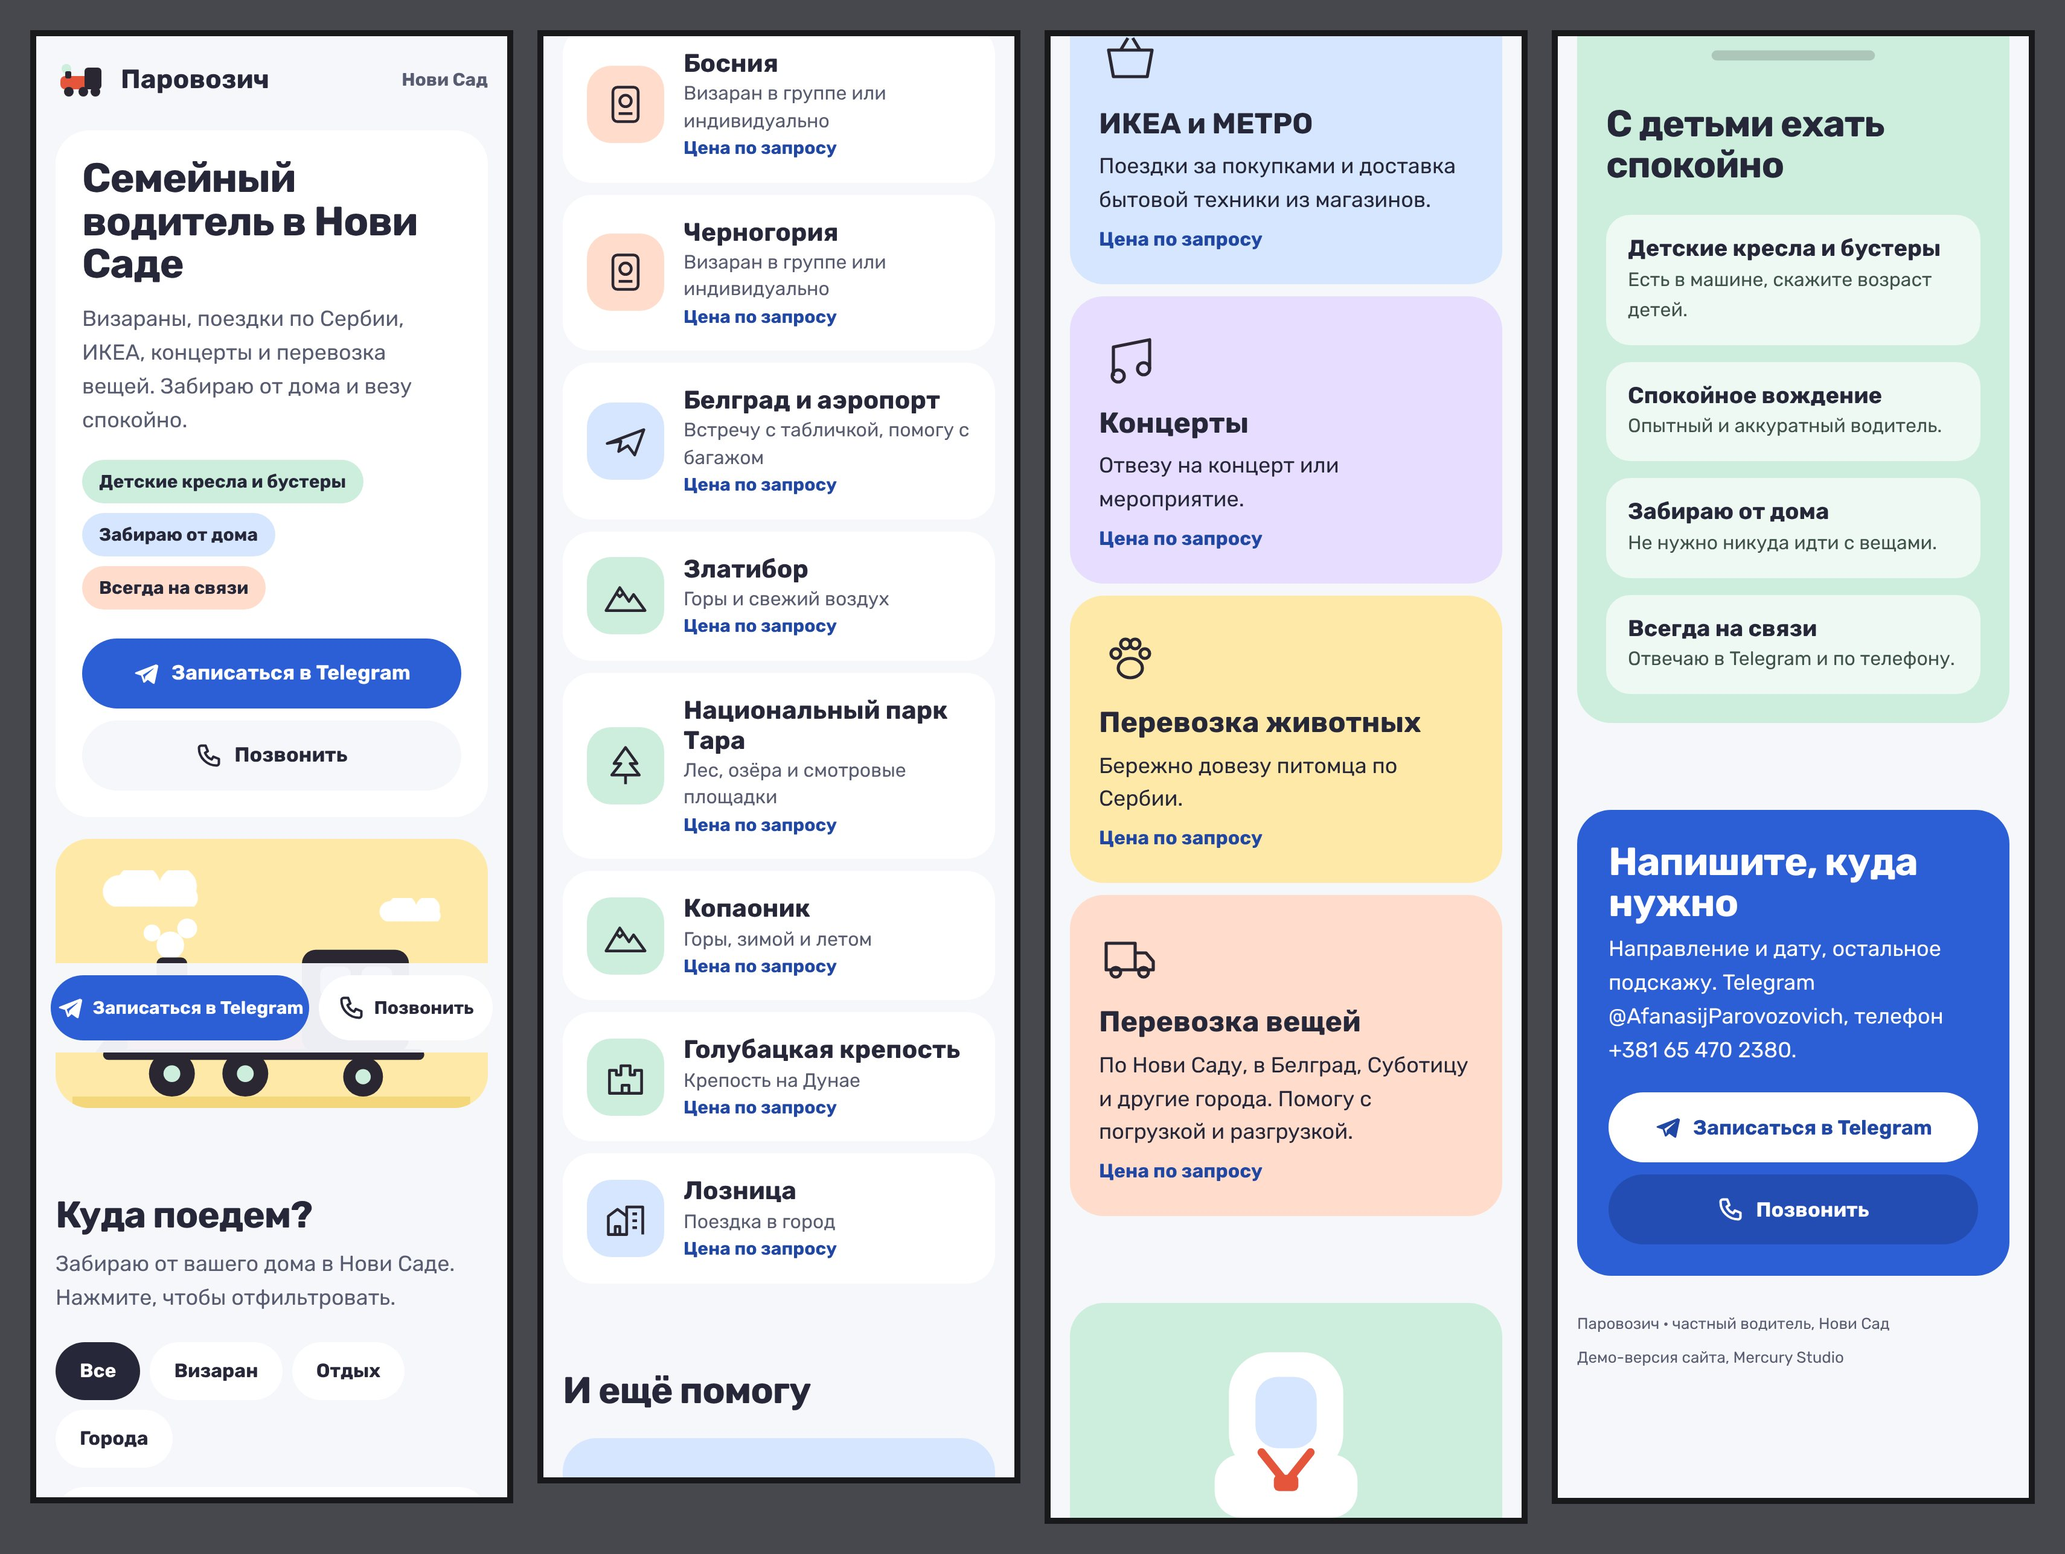
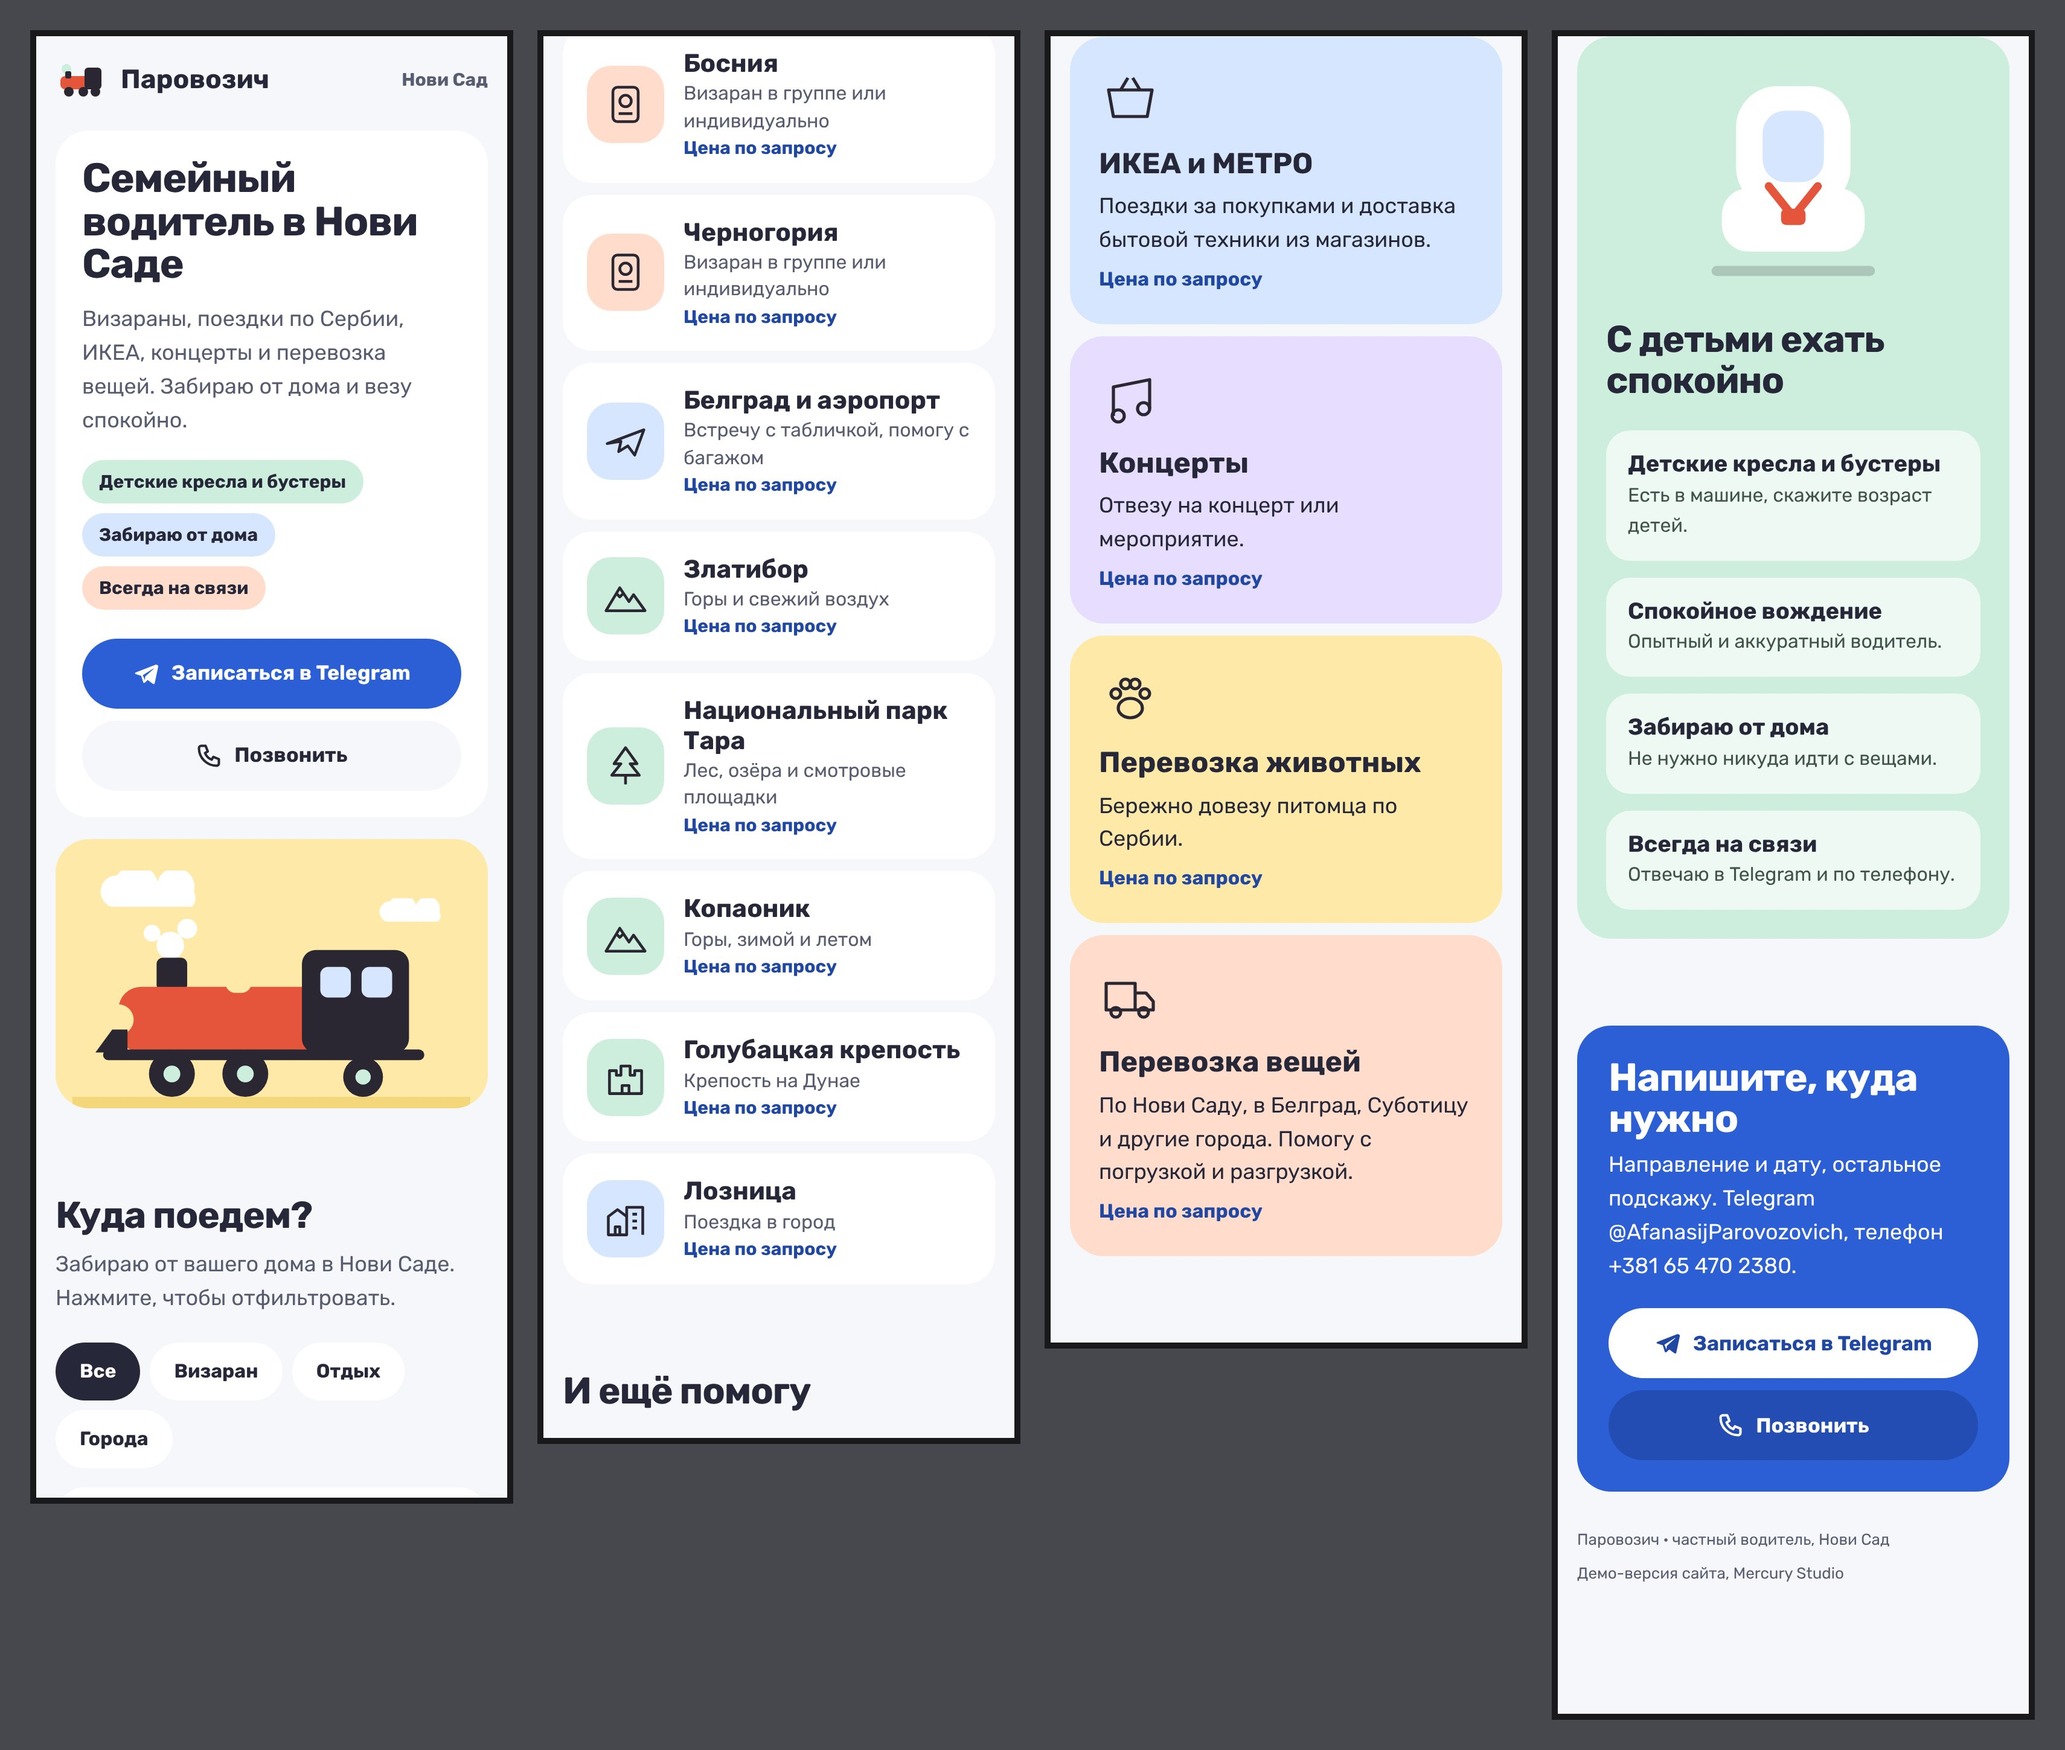
Parovozić: bottom bar appears only after the first-screen buttons scroll away; clean previews
Claude-Session: https://claude.ai/code/session_01UWZxjZDZsRNAHBMSR73c6z

diff --git a/sites/parovozic/map/index.html b/sites/parovozic/map/index.html
@@ -130,6 +130,9 @@ footer{padding:30px 0 22px;color:var(--soft);font-size:13px;display:flex;flex-wr
   .end{grid-template-columns:1fr auto;align-items:center}
 }
 @media (prefers-reduced-motion:reduce){.js .route.draw{animation:none;stroke-dasharray:none}}
+.dock{transition:transform .3s cubic-bezier(.2,.7,.1,1)}
+.dock.away{transform:translateY(110%)}
+@media (prefers-reduced-motion:reduce){.dock{transition:none}}
 </style>
 </head>
 <body>
@@ -274,6 +277,15 @@ footer{padding:30px 0 22px;color:var(--soft);font-size:13px;display:flex;flex-wr
   if(reduce||!("IntersectionObserver" in window))return;
   routes.forEach(function(p,i){var l=Math.ceil(p.getTotalLength());p.style.setProperty("--len",l);p.style.strokeDashoffset=l;p.style.animationDelay=(i*.08)+"s"});
   new IntersectionObserver(function(es,o){if(es[0].isIntersecting){routes.forEach(function(p){p.classList.add("draw")});o.disconnect()}},{threshold:.3}).observe(map);
+})();
+</script>
+<script>
+/* the bottom bar shows up only once the first screen's buttons have scrolled away */
+(function(){
+  var dock=document.querySelector(".dock"),acts=document.querySelector("main .acts");
+  if(!dock||!acts||!("IntersectionObserver" in window))return;
+  dock.classList.add("away");
+  new IntersectionObserver(function(es){dock.classList.toggle("away",es[0].isIntersecting||es[0].boundingClientRect.top>0)}).observe(acts);
 })();
 </script>
 </body>

diff --git a/sites/parovozic/rail/index.html b/sites/parovozic/rail/index.html
@@ -123,6 +123,9 @@ footer{padding:36px 0 24px;color:var(--mute);font-size:13px;display:flex;flex-wr
   .ticket{grid-template-columns:1fr auto;align-items:center}
 }
 @media (prefers-reduced-motion:reduce){.js .loco .smoke circle{animation:none;opacity:.5}}
+.dock{transition:transform .3s cubic-bezier(.2,.7,.1,1)}
+.dock.away{transform:translateY(110%)}
+@media (prefers-reduced-motion:reduce){.dock{transition:none}}
 </style>
 </head>
 <body>
@@ -248,6 +251,15 @@ footer{padding:36px 0 24px;color:var(--mute);font-size:13px;display:flex;flex-wr
   }
   var io=new IntersectionObserver(function(es){es.forEach(function(e){if(e.isIntersecting){spin(e.target,flaps.indexOf(e.target)%4*90);io.unobserve(e.target)}})},{threshold:.6});
   flaps.forEach(function(f){io.observe(f)});
+})();
+</script>
+<script>
+/* the bottom bar shows up only once the first screen's buttons have scrolled away */
+(function(){
+  var dock=document.querySelector(".dock"),acts=document.querySelector("main .acts");
+  if(!dock||!acts||!("IntersectionObserver" in window))return;
+  dock.classList.add("away");
+  new IntersectionObserver(function(es){dock.classList.toggle("away",es[0].isIntersecting||es[0].boundingClientRect.top>0)}).observe(acts);
 })();
 </script>
 </body>

diff --git a/sites/parovozic/family/index.html b/sites/parovozic/family/index.html
@@ -127,6 +127,9 @@ footer{padding:30px 0 22px;color:var(--soft);font-size:13px;display:flex;flex-wr
   .end{grid-template-columns:1fr auto;align-items:center}
 }
 @media (prefers-reduced-motion:reduce){.js .pic .cloud{animation:none}}
+.dock{transition:transform .3s cubic-bezier(.2,.7,.1,1)}
+.dock.away{transform:translateY(110%)}
+@media (prefers-reduced-motion:reduce){.dock{transition:none}}
 </style>
 </head>
 <body>
@@ -258,6 +261,15 @@ footer{padding:30px 0 22px;color:var(--soft);font-size:13px;display:flex;flex-wr
     bs.forEach(function(x){x.setAttribute("aria-pressed",x===b)});
     items.forEach(function(li){li.hidden=b.dataset.f!=="all"&&!li.classList.contains(b.dataset.f)});
   })});
+})();
+</script>
+<script>
+/* the bottom bar shows up only once the first screen's buttons have scrolled away */
+(function(){
+  var dock=document.querySelector(".dock"),acts=document.querySelector("main .acts");
+  if(!dock||!acts||!("IntersectionObserver" in window))return;
+  dock.classList.add("away");
+  new IntersectionObserver(function(es){dock.classList.toggle("away",es[0].isIntersecting||es[0].boundingClientRect.top>0)}).observe(acts);
 })();
 </script>
 </body>
